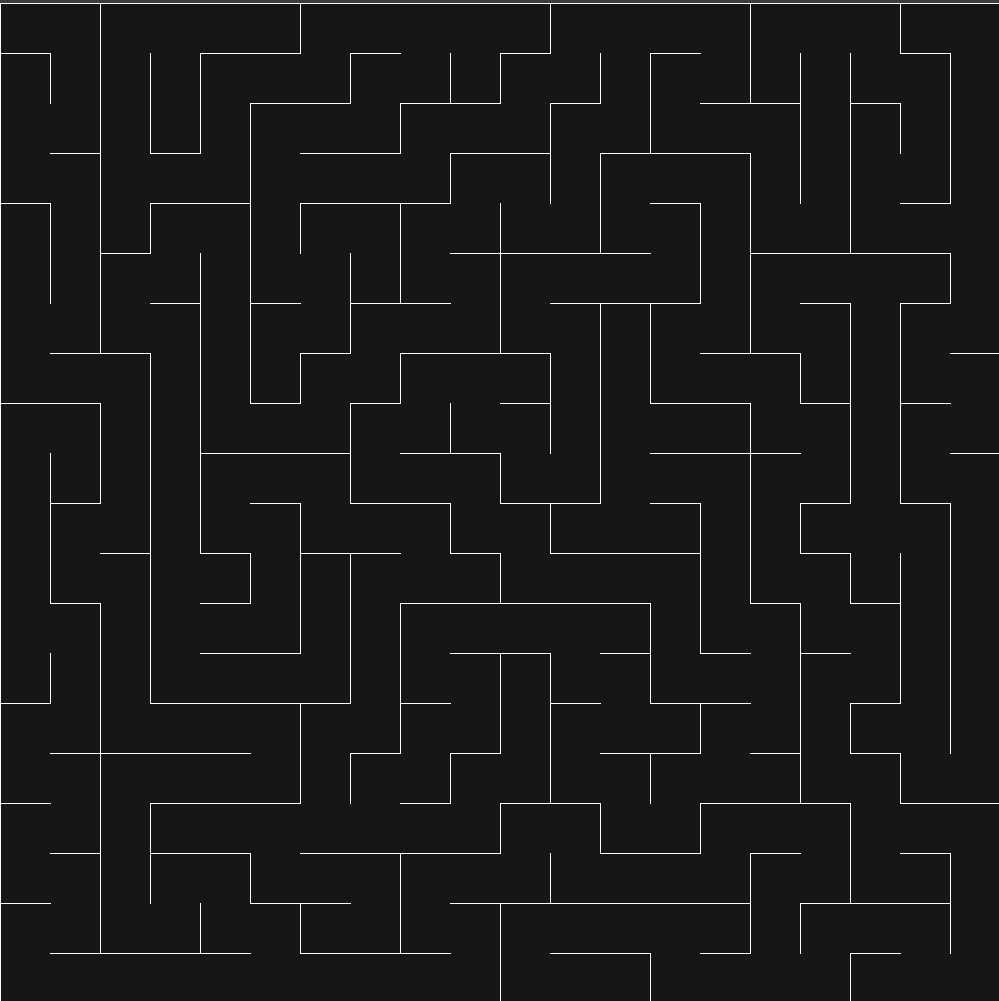
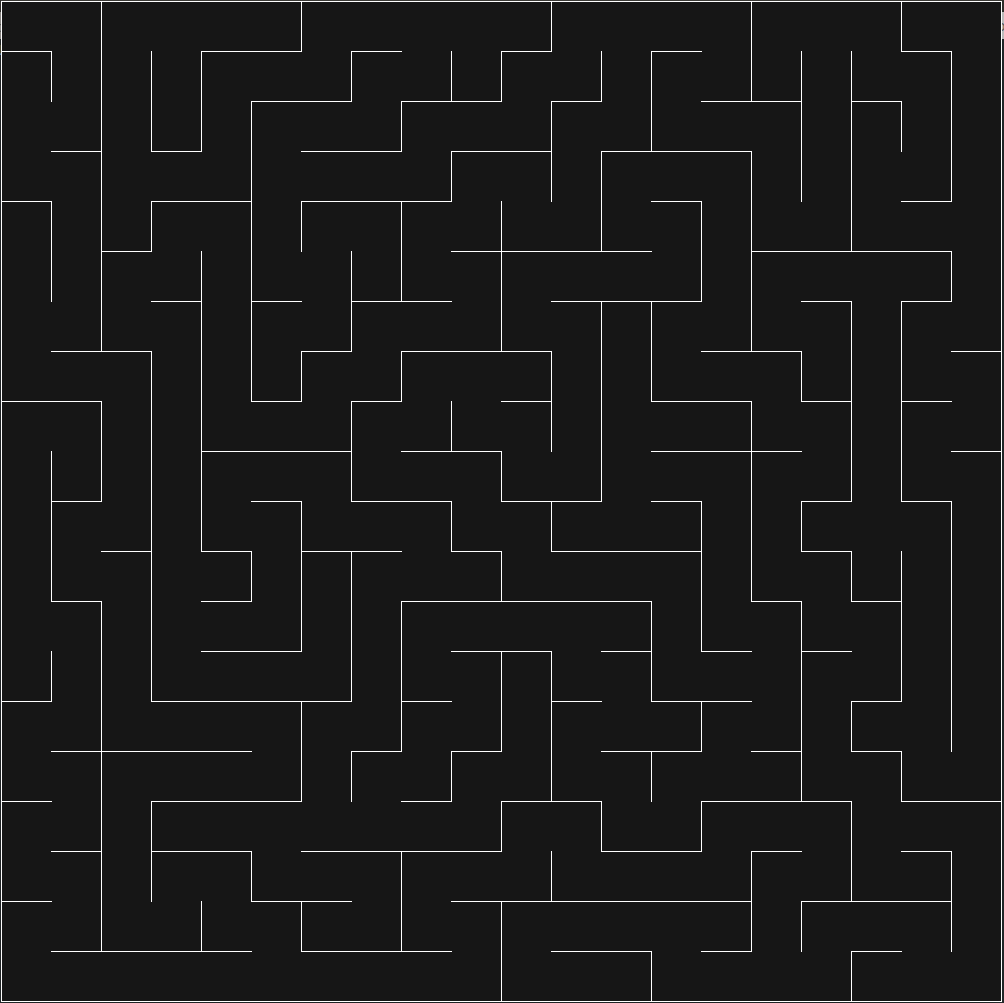
added padding to maze grid

diff --git a/SDL_exploration/src/sdl_maze.cpp b/SDL_exploration/src/sdl_maze.cpp
@@ -31,8 +31,10 @@ bool MazeGenerator::showMaze() {
      * 3. Start iterating through cells and draw them ?
      */
     // Set window width and height
-    uint32_t width = m_rows * m_size;
-    uint32_t height = m_cols * m_size;
+    // increase size by 1 to see all the drawn lines
+    uint32_t padding = 1;
+    uint32_t width = m_rows * m_size + padding;
+    uint32_t height = m_cols * m_size + padding;
 
     // Set the color values
     SDL_Color background_color = {22, 22, 22, 255};  // Barley black
